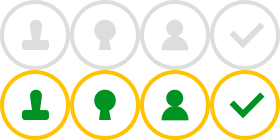
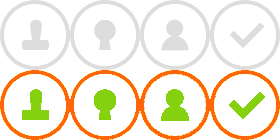
2022-12-12

diff --git a/src/main/resources/static/css/sign/signup.css b/src/main/resources/static/css/sign/signup.css
@@ -76,8 +76,8 @@ main{
 }
 
 .signupWrap>h3{
-	color: rgba(255, 195, 0,1);
-	background-color: rgba(88, 0, 108,0.8);
+	color: rgba(0, 0, 0, 0.95);
+	background-color: rgb(255 101 11);
 	font-size: 24px;
 	height: 70px;
 	line-height: 70px;
@@ -142,7 +142,7 @@ main{
 	border-top:white;
 	border-bottom:white;
 	background-color:white;
-	color: #009223;
+	color: rgb(134, 209, 15);
 	font-size: 16px;
 	font-family: font_ns, sans-serif;
 }
@@ -162,10 +162,10 @@ main{
 	width:170px;
 	font-family: font_ns, sans-serif; 
 	font-size: 18px;
-	background-color: #009223;
+	background-color: rgb(255 101 11);
 	border-radius: 25px 25px 25px 25px;
 	height:50px;
-	border: 2px solid #009223;
+	border: 2px solid rgb(255 101 11);
 }
 .signupWrap>.inputArea>.inputForm form ul>li>div>.passwordCheck {
 	display:none;

diff --git a/src/main/resources/static/css/main/main.css b/src/main/resources/static/css/main/main.css
@@ -65,7 +65,7 @@ body { overflow-x:hidden; }
 }
 
 .wrap>.main-wrap>div .navcon .nav>a:hover{
-	background-color: #ffc300;
+	background-color: rgb(255 101 11);
     width: 30px;
 }
 
@@ -79,7 +79,7 @@ body { overflow-x:hidden; }
 }
 
 .wrap>.main-wrap>.market>.find a{
-	background-color: #ffce32;
+	background-color: rgb(134, 209, 15);
     border-radius: 30px 0 0 0;
     float: right;
     width:300px;
@@ -103,7 +103,7 @@ body { overflow-x:hidden; }
 }
 
 .wrap>.main-wrap>.market>.fran a{
-    background-color: #009223;
+    background-color: rgb(255 101 11);
     border-radius: 0 0 30px 0;
     width:300px;
     height:80px;
